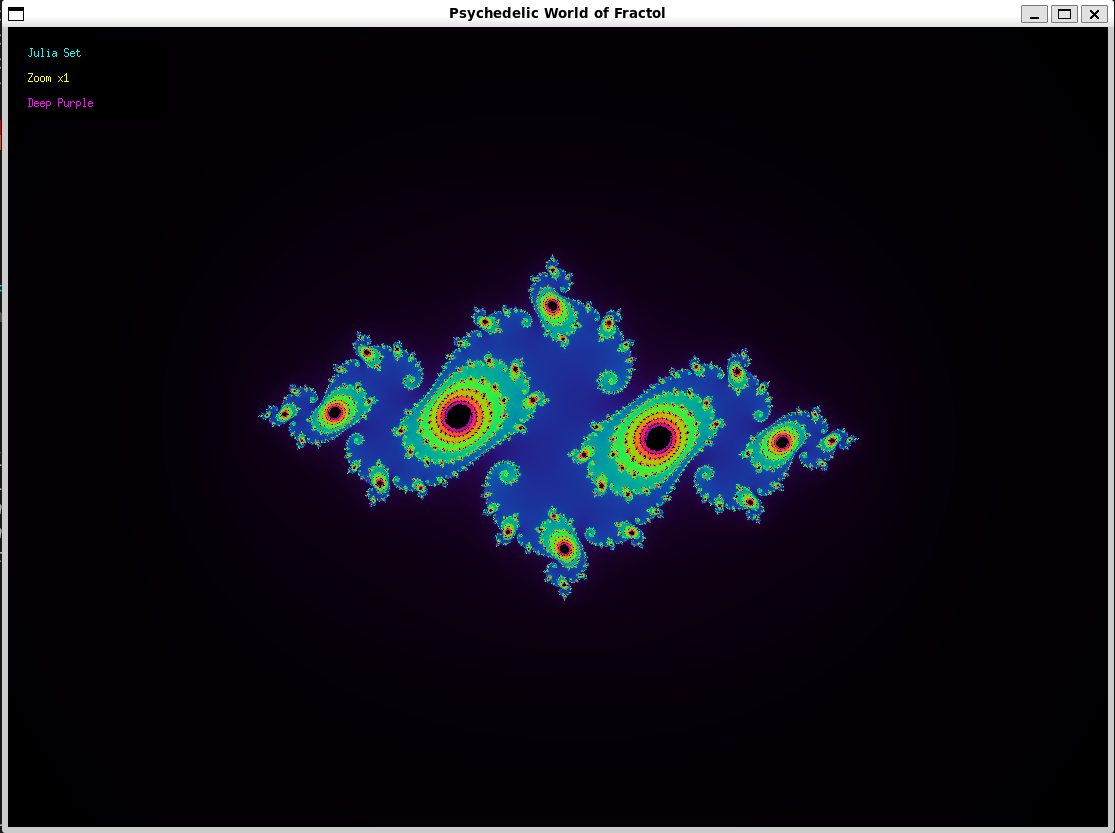
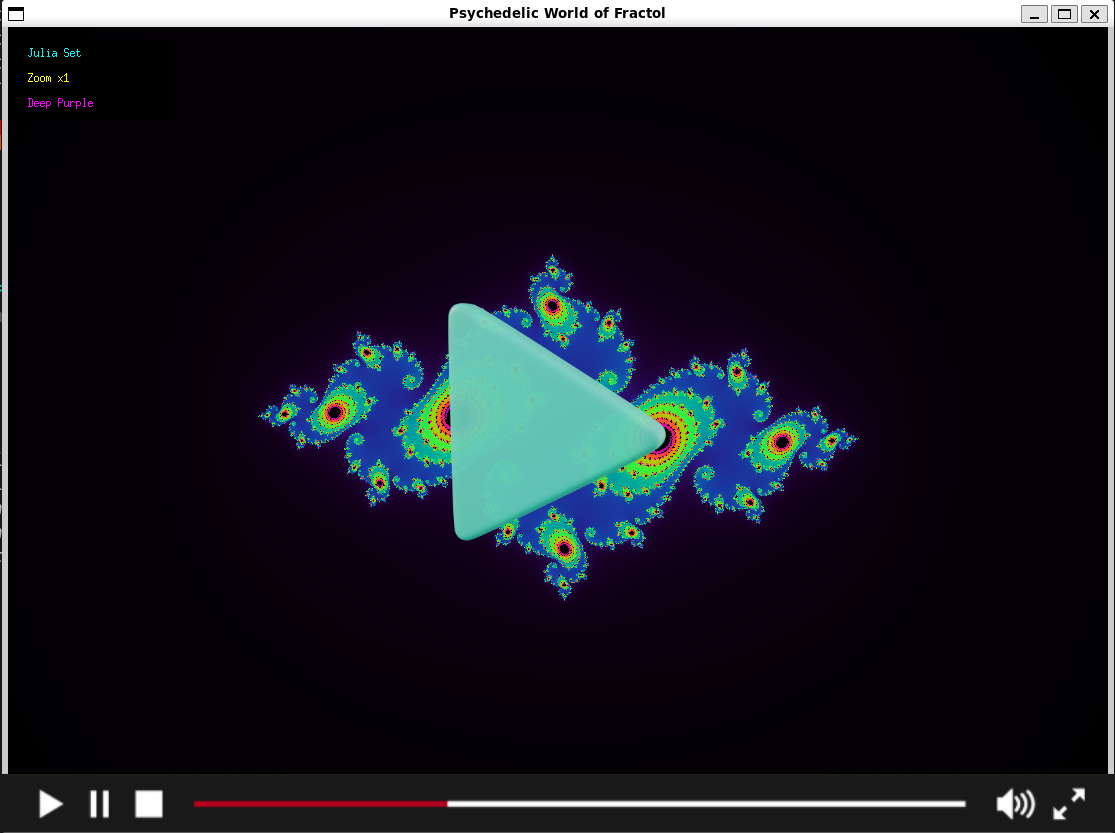
Changed fractals images and add video watch links in table of contents

Changed region(s): [[0.0, 0.9052, 1.0, 1.0], [0.3964, 0.3433, 0.6099, 0.6555]]

diff --git a/README.md b/README.md
@@ -38,10 +38,10 @@
   - [Moul Ndader Challenge EVERYBODY](#the-world) 
 - [The Psychedelic Trip Start](#trip-start)
   - [Intro to my psychedelic realm](#trip-start)
-  - [1. Mandelbrot Set ▶](#-mandelbrot-set)
-  - [2. Julia Set ▶ ](#-julia-set)
-  - [3. Newton Set ▶](#-newton-set)
-  - [4. Flower Set ▶](#-flower-set)
+  - [1. Mandelbrot Set ▶](#-mandelbrot-set) · [Watch the Mandelbrot Set ▶](#mandelbrot-video)
+  - [2. Julia Set ▶ ](#-julia-set) · [Watch the Julia Set ▶](#julia-video)
+  - [3. Newton Set ▶](#-newton-set) · [Watch the Newton Set ▶](#newton-video)
+  - [4. Flower Set ▶](#-flower-set) · [Watch the Flower Set ▶](#flower-video)
 - [Installation](#Installation)
 - [Technical Documentation](#Technical-Documentation)
 - [The End](#The-End)
@@ -416,6 +416,7 @@ and infinity feels... familiar
 ```
 
 <br>
+<a id="mandelbrot-video"></a>
 <div align="center">
 <h4>😌 [⬇ Watch the Mandelbrot Trip VIDEO ⬇] 😌</h4>
 </div>
@@ -493,6 +494,7 @@ you **feel** it.
 
 <br>
 
+<a id="julia-video"></a>
 <div align="center">
 <h4>♾ [⬇ Enter Mister Julia's World - VIDEO ⬇] ♾</h4>
 </div>
@@ -571,6 +573,7 @@ Pure math hallucinating in real time.
 
 <br>
 
+<a id="newton-video"></a>
 <div align="center">
 <h4>👽 [ ⬇ Drop the Acid — Newton Set VIDEO ⬇ ] 👽</h4>
 </div>
@@ -646,6 +649,7 @@ And starts being life.
 
 <br>
 
+<a id="flower-video"></a>
 <div align="center">
 <h4>🌸 [ ⬇ Hear the Colors - Flower Set VIDEO ⬇ ] 🌸</h4>
 </div>
